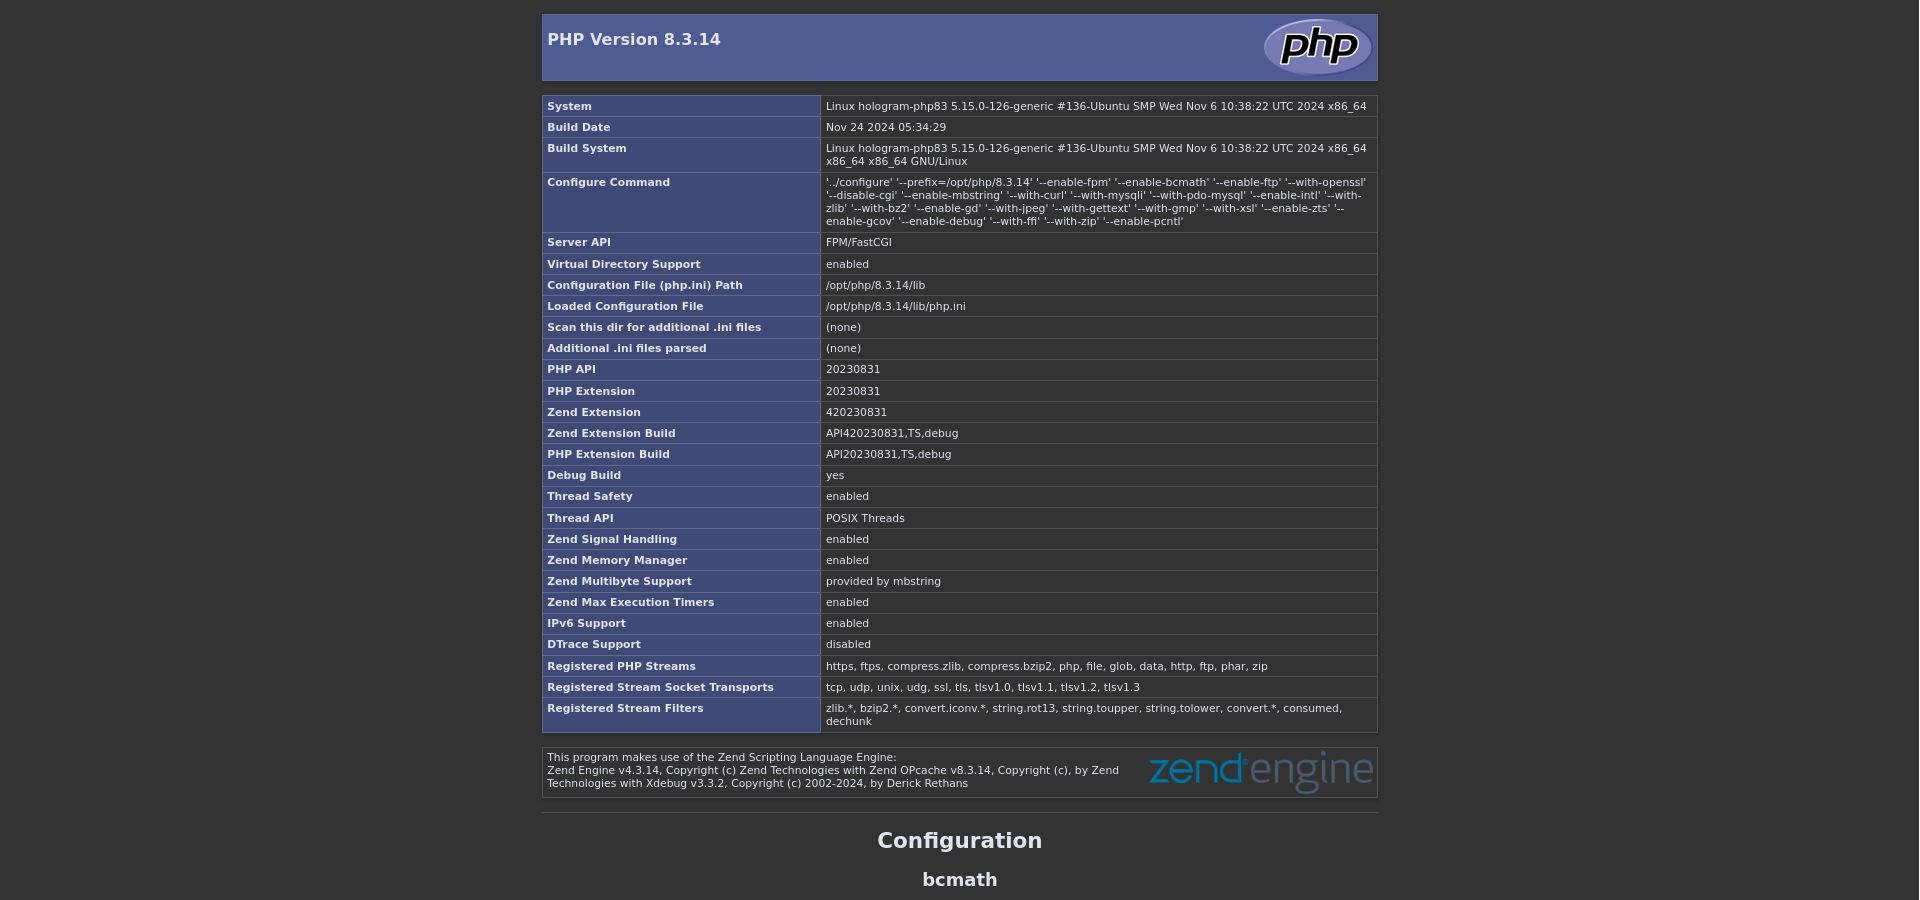
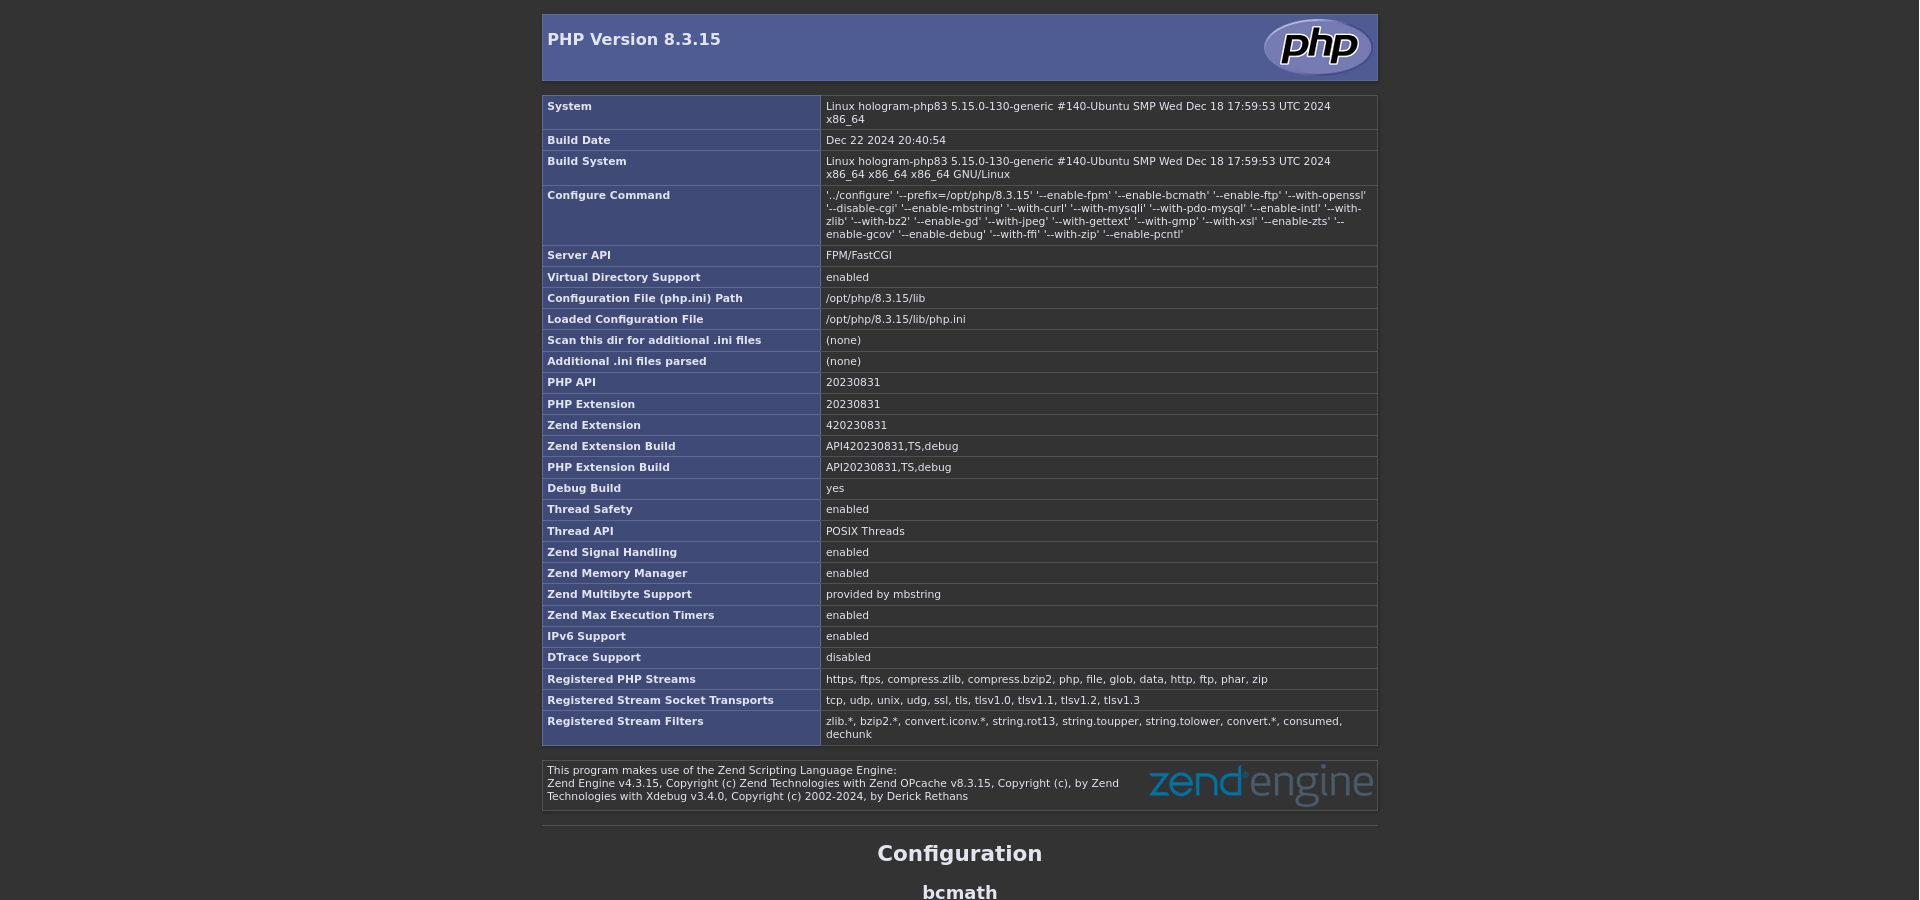
version update

Changed region(s): [[0.2812, 0.0933, 0.7188, 1.0]]

diff --git a/hologram-php83/6_PHP_SETUP.md b/hologram-php83/6_PHP_SETUP.md
@@ -1,8 +1,8 @@
-# Apache 2 and PHP 8.3.14
+# Apache 2 and PHP 8.3.15
 
 Below we will explain the steps necessary to ensure that the Apache 2 web server uses PHP-FPM (FastCGI Process Manager) compiled from sources.
 
-## download PHP 8.3.14
+## download PHP 8.3.15
 
 ```bash
 cd ~
@@ -12,26 +12,26 @@ mkdir php && cd php
 First I can check the existence of the archive:
 
 ```bash
-wget --spider --https-only https://www.php.net/distributions/php-8.3.14.tar.xz
+wget --spider --https-only https://www.php.net/distributions/php-8.3.15.tar.xz
 ```
 
 After that I can download the archive containing the sources:
 
 ```bash
-wget --https-only https://www.php.net/distributions/php-8.3.14.tar.xz
+wget --https-only https://www.php.net/distributions/php-8.3.15.tar.xz
 ls -l
-sha256sum php-8.3.14.tar.xz
-tar -xf php-8.3.14.tar.xz
+sha256sum php-8.3.15.tar.xz
+tar -xf php-8.3.15.tar.xz
 ls -l
-cd php-8.3.14/
+cd php-8.3.15/
 ```
 
-## settings and compilation from PHP version 8.3.14 sources.
+## settings and compilation from PHP version 8.3.15 sources.
 
 ```bash
 mkdir build_session && cd build_session
 ../configure --help | grep -i "opcache"
-../configure --prefix=/opt/php/8.3.14 --enable-fpm --enable-bcmath --enable-ftp --with-openssl --disable-cgi --enable-mbstring --with-curl --with-mysqli --with-pdo-mysql --enable-intl --with-zlib --with-bz2 --enable-gd --with-jpeg --with-gettext --with-gmp --with-xsl --enable-zts --enable-gcov --enable-debug --with-ffi --with-zip --enable-pcntl
+../configure --prefix=/opt/php/8.3.15 --enable-fpm --enable-bcmath --enable-ftp --with-openssl --disable-cgi --enable-mbstring --with-curl --with-mysqli --with-pdo-mysql --enable-intl --with-zlib --with-bz2 --enable-gd --with-jpeg --with-gettext --with-gmp --with-xsl --enable-zts --enable-gcov --enable-debug --with-ffi --with-zip --enable-pcntl
 make
 make test
 sudo make install
@@ -40,32 +40,32 @@ sudo make install
 ## setup of php-fpm
 
 ```bash
-find ~/php/php-8.3.14 -iname 'php.ini*'
-sudo cp ~/php/php-8.3.14/php.ini-development /opt/php/8.3.14/lib/php.ini
-sudo sed -i 's/;date.timezone =/date.timezone = "Europe\/Rome"/g' /opt/php/8.3.14/lib/php.ini
-sudo sed -i 's/;cgi.fix_pathinfo=1/cgi.fix_pathinfo=0/g' /opt/php/8.3.14/lib/php.ini
-sudo sed -i 's/memory_limit = 128M/memory_limit = 256M/g' /opt/php/8.3.14/lib/php.ini
-grep -i "max_execution_time" /opt/php/8.3.14/lib/php.ini
-sudo sed -i 's/max_execution_time = 30/max_execution_time = 100/g' /opt/php/8.3.14/lib/php.ini
-grep -i "upload_max_filesize" /opt/php/8.3.14/lib/php.ini
-sudo sed -i 's/upload_max_filesize = 2M/upload_max_filesize = 8M/g' /opt/php/8.3.14/lib/php.ini
-sudo cp /opt/php/8.3.14/etc/php-fpm.conf.default /opt/php/8.3.14/etc/php-fpm.conf
-sudo sed -i 's/;pid = run\/php-fpm.pid/pid = run\/php-fpm.pid/g' /opt/php/8.3.14/etc/php-fpm.conf
+find ~/php/php-8.3.15 -iname 'php.ini*'
+sudo cp ~/php/php-8.3.15/php.ini-development /opt/php/8.3.15/lib/php.ini
+sudo sed -i 's/;date.timezone =/date.timezone = "Europe\/Rome"/g' /opt/php/8.3.15/lib/php.ini
+sudo sed -i 's/;cgi.fix_pathinfo=1/cgi.fix_pathinfo=0/g' /opt/php/8.3.15/lib/php.ini
+sudo sed -i 's/memory_limit = 128M/memory_limit = 256M/g' /opt/php/8.3.15/lib/php.ini
+grep -i "max_execution_time" /opt/php/8.3.15/lib/php.ini
+sudo sed -i 's/max_execution_time = 30/max_execution_time = 100/g' /opt/php/8.3.15/lib/php.ini
+grep -i "upload_max_filesize" /opt/php/8.3.15/lib/php.ini
+sudo sed -i 's/upload_max_filesize = 2M/upload_max_filesize = 8M/g' /opt/php/8.3.15/lib/php.ini
+sudo cp /opt/php/8.3.15/etc/php-fpm.conf.default /opt/php/8.3.15/etc/php-fpm.conf
+sudo sed -i 's/;pid = run\/php-fpm.pid/pid = run\/php-fpm.pid/g' /opt/php/8.3.15/etc/php-fpm.conf
 ```
 
 Optionally I prefer to set the language option `short_open_tag` to `On`:
 
 ```bash
-grep -i "short_open_tag = Off" /opt/php/8.3.14/lib/php.ini
-sudo sed -i 's/short_open_tag = Off/short_open_tag = On/g' /opt/php/8.3.14/lib/php.ini
+grep -i "short_open_tag = Off" /opt/php/8.3.15/lib/php.ini
+sudo sed -i 's/short_open_tag = Off/short_open_tag = On/g' /opt/php/8.3.15/lib/php.ini
 ```
 
 Obviously the `timezone` must be set in the most appropriate way because it depends on where the server is located.
 
-At the end of the `/opt/php/8.3.14/etc/php-fpm.conf` file
+At the end of the `/opt/php/8.3.15/etc/php-fpm.conf` file
 
 ```bash
-sudo nano /opt/php/8.3.14/etc/php-fpm.conf
+sudo nano /opt/php/8.3.15/etc/php-fpm.conf
 ```
 
 add the following lines:
@@ -79,15 +79,15 @@ group = www-data
 But it is better to modify with sed and then check the result:
 
 ```bash
-sudo sed -i '$auser = www-data' /opt/php/8.3.14/etc/php-fpm.conf
-sudo sed -i '$agroup = www-data' /opt/php/8.3.14/etc/php-fpm.conf
-tail /opt/php/8.3.14/etc/php-fpm.conf
+sudo sed -i '$auser = www-data' /opt/php/8.3.15/etc/php-fpm.conf
+sudo sed -i '$agroup = www-data' /opt/php/8.3.15/etc/php-fpm.conf
+tail /opt/php/8.3.15/etc/php-fpm.conf
 ```
 
 Now copy `www.conf`:
 
 ```bash
-sudo cp /opt/php/8.3.14/etc/php-fpm.d/www.conf.default /opt/php/8.3.14/etc/php-fpm.d/www.conf
+sudo cp /opt/php/8.3.15/etc/php-fpm.d/www.conf.default /opt/php/8.3.15/etc/php-fpm.d/www.conf
 ls -al /usr/lib/systemd/system/ | grep -i "php-fpm.service"
 ```
 
@@ -99,13 +99,13 @@ sudo nano /usr/lib/systemd/system/php-fpm.service
 
 ```text
 [Unit]
-Description=PHP 8.3.14 FastCGI Process Manager
+Description=PHP 8.3.15 FastCGI Process Manager
 After=network.target
 
 [Service]
 Type=simple
-PIDFile=/opt/php/8.3.14/var/run/php-fpm.pid
-ExecStart=/opt/php/8.3.14/sbin/php-fpm --nodaemonize --fpm-config /opt/php/8.3.14/etc/php-fpm.conf
+PIDFile=/opt/php/8.3.15/var/run/php-fpm.pid
+ExecStart=/opt/php/8.3.15/sbin/php-fpm --nodaemonize --fpm-config /opt/php/8.3.15/etc/php-fpm.conf
 ExecReload=/bin/kill -USR2 $MAINPID
 
 [Install]
@@ -115,14 +115,14 @@ WantedBy=multi-user.target
 Or better yet, if the file just needs modifications:
 
 ```bash
-sudo sed -i 's/8.3.13/8.3.14/g' /usr/lib/systemd/system/php-fpm.service
+sudo sed -i 's/8.3.14/8.3.15/g' /usr/lib/systemd/system/php-fpm.service
 ```
 
 Enable Zend OPcache:
 
 ```bash
-grep -i "zend_extension" /opt/php/8.3.14/lib/php.ini
-sudo sed -i 's/;zend_extension=opcache/zend_extension=opcache.so/g' /opt/php/8.3.14/lib/php.ini
+grep -i "zend_extension" /opt/php/8.3.15/lib/php.ini
+sudo sed -i 's/;zend_extension=opcache/zend_extension=opcache.so/g' /opt/php/8.3.15/lib/php.ini
 ```
 
 ## now I try to start the newly created service:
@@ -155,7 +155,7 @@ During the next step, I have to be very careful.
 I change the module's listening mode from socket TCP to socket UNIX:
 
 ```bash
-sudo nano /opt/php/8.3.14/etc/php-fpm.d/www.conf
+sudo nano /opt/php/8.3.15/etc/php-fpm.d/www.conf
 ```
 
 ```text
@@ -177,17 +177,17 @@ listen.group = www-data
 Similar to what was done before, it is better to modify with `sed` and then check the result:
 
 ```bash
-sudo sed -i 's/^user = nobody/;user = nobody/g' /opt/php/8.3.14/etc/php-fpm.d/www.conf
-grep -i ";user = nobody" /opt/php/8.3.14/etc/php-fpm.d/www.conf
-sudo sed -i 's/^group = nobody/;group = nobody/g' /opt/php/8.3.14/etc/php-fpm.d/www.conf
-grep -i ";group = nobody" /opt/php/8.3.14/etc/php-fpm.d/www.conf
-sudo sed -i 's/^listen = 127.0.0.1:9000/;listen = 127.0.0.1:9000/g' /opt/php/8.3.14/etc/php-fpm.d/www.conf
-grep -i ";listen = 127.0.0.1:9000" /opt/php/8.3.14/etc/php-fpm.d/www.conf
-sudo sed -i '$a; UNIX socket' /opt/php/8.3.14/etc/php-fpm.d/www.conf
-sudo sed -i '$alisten = /run/php-fpm.sock' /opt/php/8.3.14/etc/php-fpm.d/www.conf
-sudo sed -i '$alisten.owner = www-data' /opt/php/8.3.14/etc/php-fpm.d/www.conf
-sudo sed -i '$alisten.group = www-data' /opt/php/8.3.14/etc/php-fpm.d/www.conf
-tail --lines=4 /opt/php/8.3.14/etc/php-fpm.d/www.conf
+sudo sed -i 's/^user = nobody/;user = nobody/g' /opt/php/8.3.15/etc/php-fpm.d/www.conf
+grep -i ";user = nobody" /opt/php/8.3.15/etc/php-fpm.d/www.conf
+sudo sed -i 's/^group = nobody/;group = nobody/g' /opt/php/8.3.15/etc/php-fpm.d/www.conf
+grep -i ";group = nobody" /opt/php/8.3.15/etc/php-fpm.d/www.conf
+sudo sed -i 's/^listen = 127.0.0.1:9000/;listen = 127.0.0.1:9000/g' /opt/php/8.3.15/etc/php-fpm.d/www.conf
+grep -i ";listen = 127.0.0.1:9000" /opt/php/8.3.15/etc/php-fpm.d/www.conf
+sudo sed -i '$a; UNIX socket' /opt/php/8.3.15/etc/php-fpm.d/www.conf
+sudo sed -i '$alisten = /run/php-fpm.sock' /opt/php/8.3.15/etc/php-fpm.d/www.conf
+sudo sed -i '$alisten.owner = www-data' /opt/php/8.3.15/etc/php-fpm.d/www.conf
+sudo sed -i '$alisten.group = www-data' /opt/php/8.3.15/etc/php-fpm.d/www.conf
+tail --lines=4 /opt/php/8.3.15/etc/php-fpm.d/www.conf
 ```
 
 ## match FPM with Apache

diff --git a/hologram-php83/7_XDEBUG_SETUP.md b/hologram-php83/7_XDEBUG_SETUP.md
@@ -23,10 +23,10 @@ rm /usr/bin/php-config
 Otherwise, if this is the first installation from sources, we immediately move on to the following instructions:
 
 ```bash
-ln --symbolic --verbose /opt/php/8.3.14/bin/php /usr/bin/php
-ln --symbolic --verbose /opt/php/8.3.14/bin/phar.phar /usr/bin/phar
-ln --symbolic --verbose /opt/php/8.3.14/bin/phpize /usr/bin/phpize
-ln --symbolic --verbose /opt/php/8.3.14/bin/php-config /usr/bin/php-config
+ln --symbolic --verbose /opt/php/8.3.15/bin/php /usr/bin/php
+ln --symbolic --verbose /opt/php/8.3.15/bin/phar.phar /usr/bin/phar
+ln --symbolic --verbose /opt/php/8.3.15/bin/phpize /usr/bin/phpize
+ln --symbolic --verbose /opt/php/8.3.15/bin/php-config /usr/bin/php-config
 ```
 
 Update `locate` cache:
@@ -43,10 +43,11 @@ Be sure to replace the real link of the version you prefer.
 
 ```bash
 mkdir xdebug && cd xdebug
-wget https://xdebug.org/files/xdebug-3.3.2.tgz
-sha256sum xdebug-3.3.2.tgz
-tar -xvzf xdebug-3.3.2.tgz
-cd xdebug-3.3.2/
+wget --spider --https-only https://xdebug.org/files/xdebug-3.4.0.tgz
+wget --https-only https://xdebug.org/files/xdebug-3.4.0.tgz
+sha256sum xdebug-3.4.0.tgz
+tar -xzf xdebug-3.4.0.tgz
+cd xdebug-3.4.0/
 phpize
 mkdir build_session && cd build_session
 ../configure --help
@@ -58,7 +59,7 @@ sudo make install
 Instead, if it is a PHP version update:
 
 ```bash
-cd xdebug/xdebug-3.3.2/
+cd xdebug/xdebug-3.4.0/
 phpize
 mkdir build_session_update_n && cd build_session_update_n
 ../configure --help
@@ -74,14 +75,14 @@ php --ini
 sudo -s
 updatedb
 locate xdebug.ini
-rnano /opt/php/8.3.14/lib/php.ini
+rnano /opt/php/8.3.15/lib/php.ini
 ```
 
 First it is a good idea to view the contents of the file without risking causing damage.
-And now I edit `/opt/php/8.3.14/lib/php.ini` configuration file
+And now I edit `/opt/php/8.3.15/lib/php.ini` configuration file
 
 ```bash
-nano /opt/php/8.3.14/lib/php.ini
+nano /opt/php/8.3.15/lib/php.ini
 ```
 
 I add this section:
